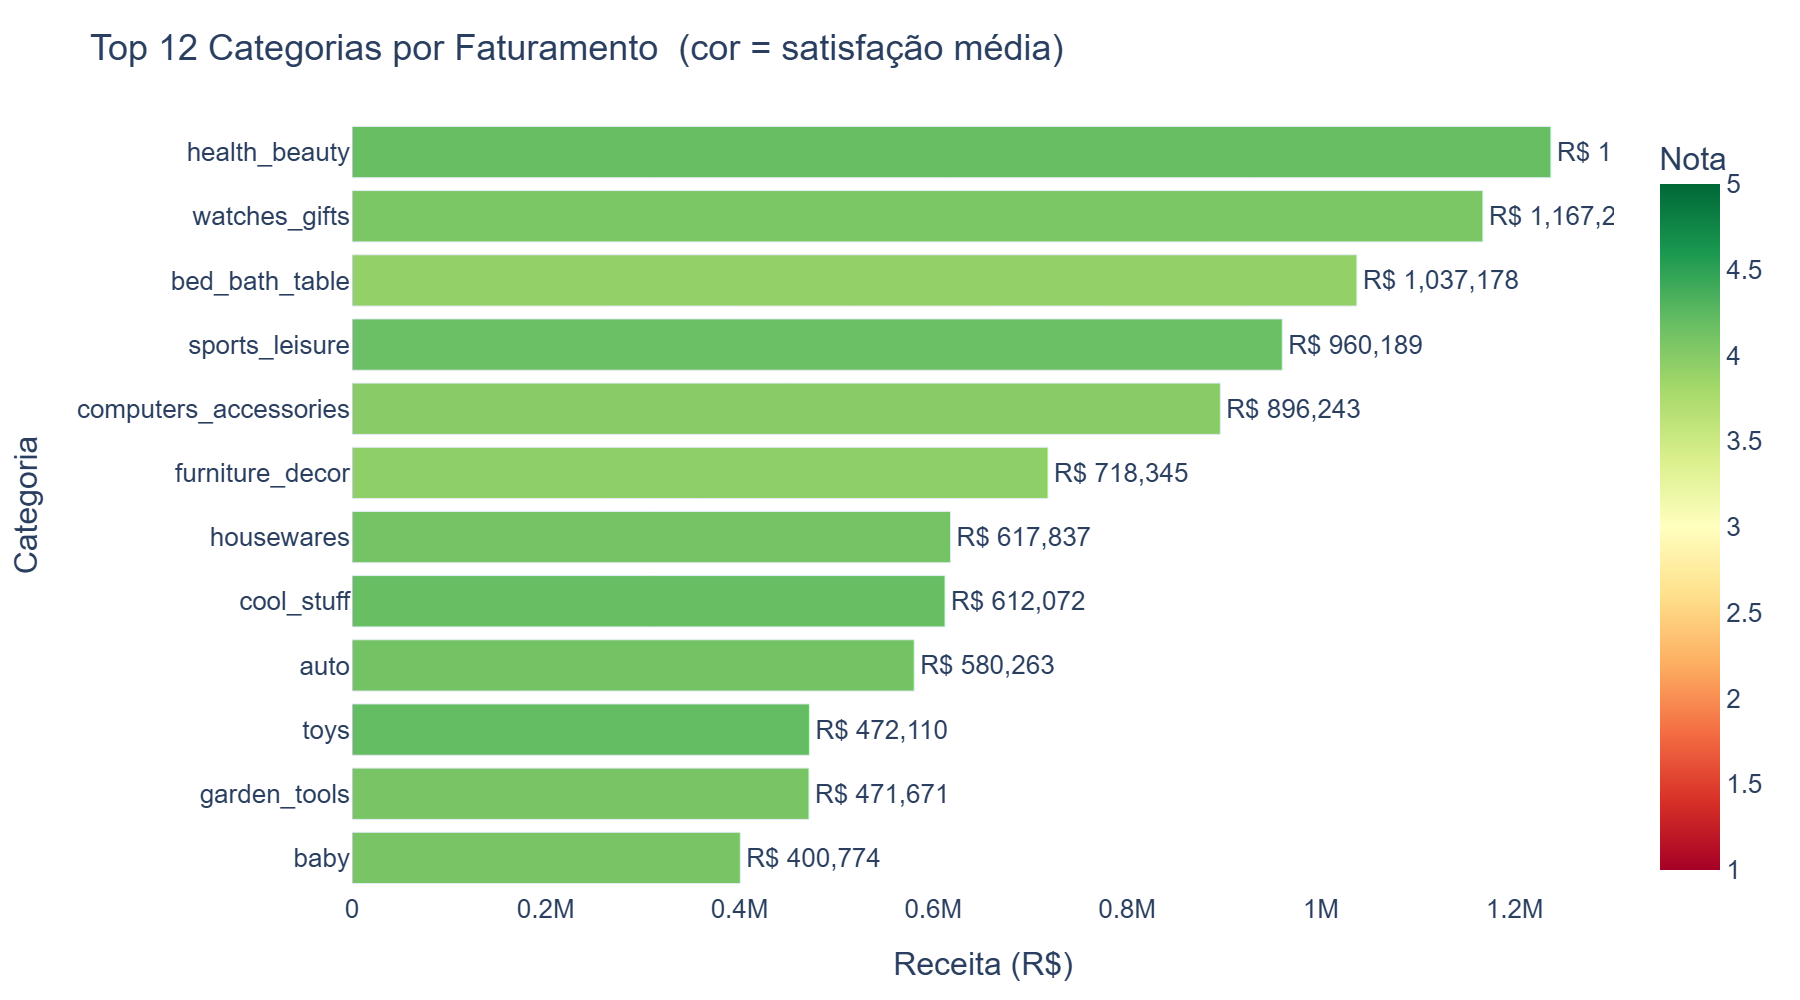
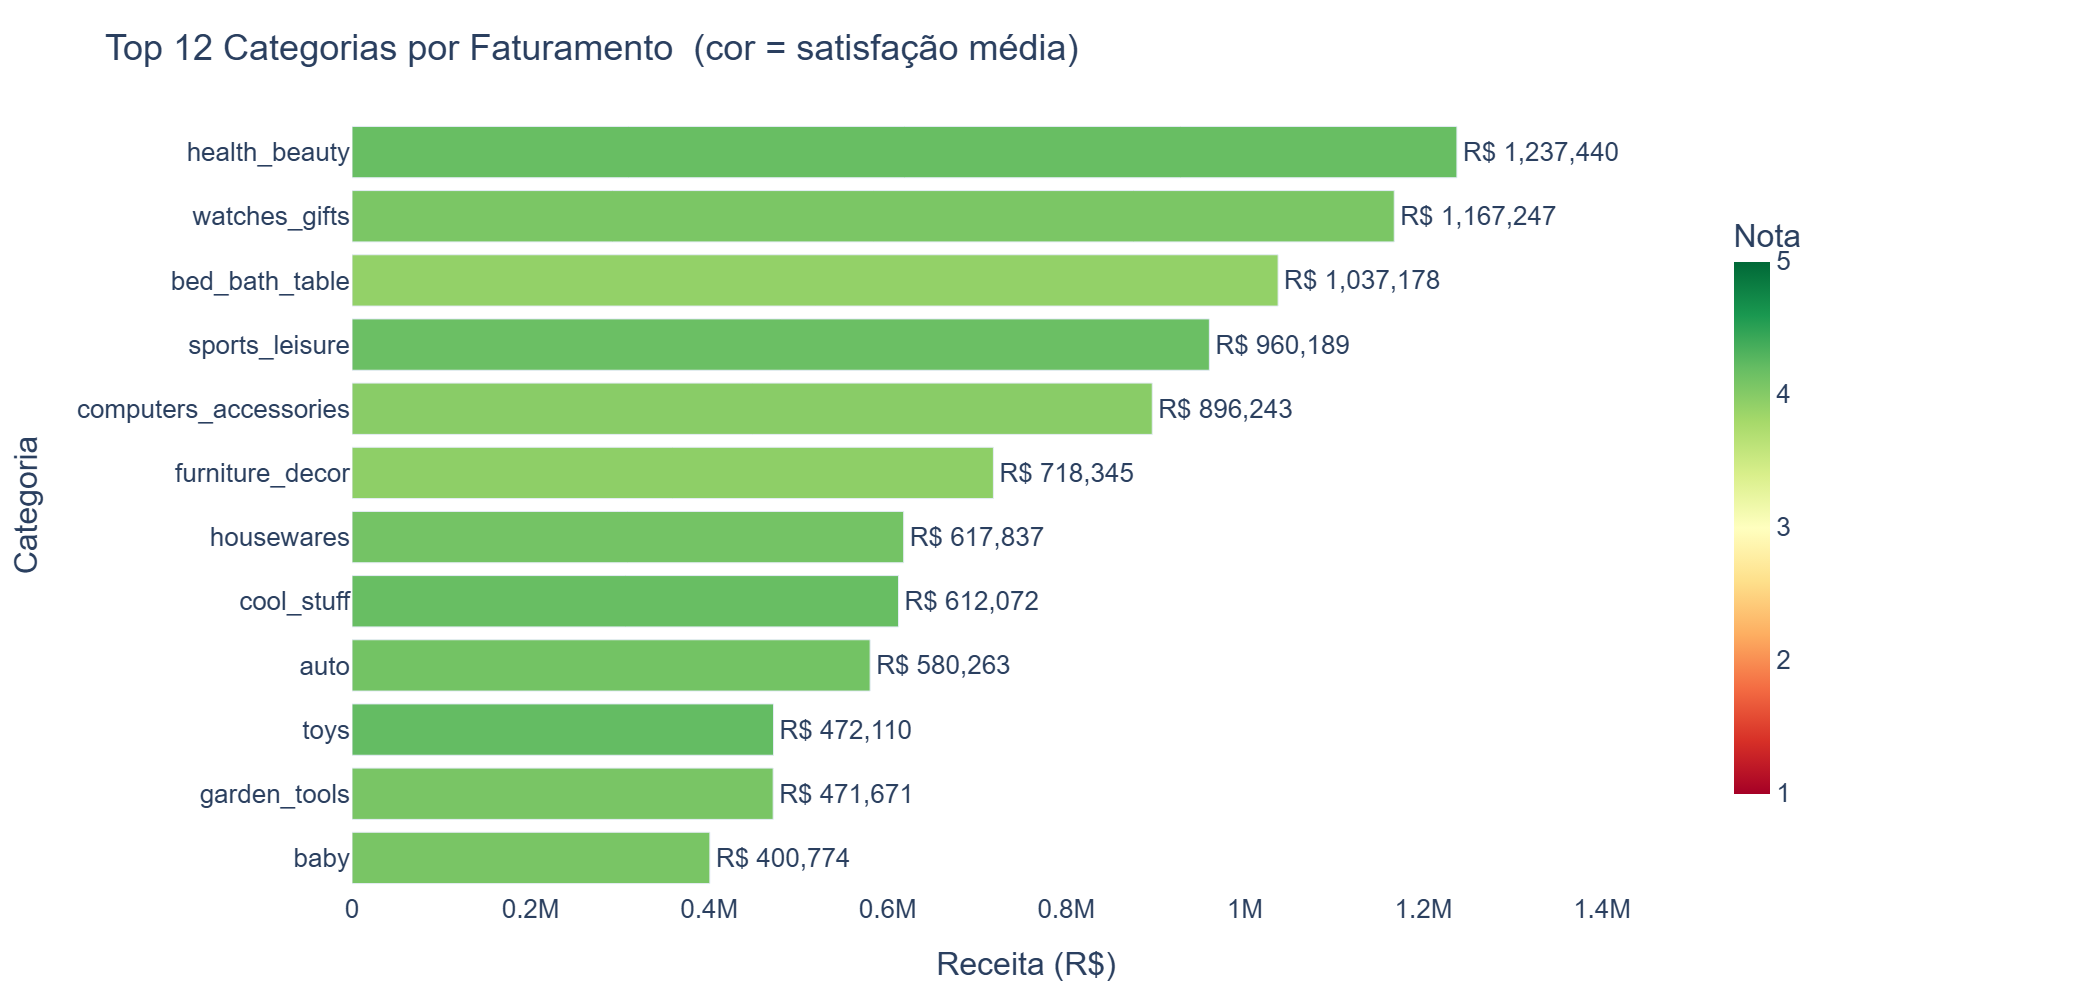
Corrige layout dos gráficos: remove colorbar vazando e ajusta margem das categorias

diff --git a/generate_screenshots.py b/generate_screenshots.py
@@ -136,12 +136,12 @@ def gera_overview():
         showlegend=False,
     ), row=1, col=1)
 
-    # Categorias (horizontal bar)
+    # Categorias (horizontal bar) — showscale=False para não vazar colorbar no subplot vizinho
     top10 = cats.head(10).sort_values('receita')
     fig.add_trace(go.Bar(
         x=top10['receita'], y=top10['categoria'],
         orientation='h',
-        marker=dict(color=top10['receita'], colorscale='Blues'),
+        marker=dict(color=top10['receita'], colorscale='Blues', showscale=False),
         showlegend=False,
     ), row=1, col=2)
 
@@ -154,10 +154,10 @@ def gera_overview():
         showlegend=False,
     ), row=2, col=1)
 
-    # Estados
+    # Estados — showscale=False para não vazar colorbar
     fig.add_trace(go.Bar(
         x=estados['estado'], y=estados['receita'],
-        marker=dict(color=estados['receita'], colorscale='Purples'),
+        marker=dict(color=estados['receita'], colorscale='Purples', showscale=False),
         showlegend=False,
     ), row=2, col=2)
 
@@ -224,7 +224,17 @@ def gera_categorias():
         title='Top 12 Categorias por Faturamento  (cor = satisfação média)',
     )
     fig.update_traces(texttemplate='R$ %{text:,.0f}', textposition='outside')
-    fig.update_layout(height=500, width=900, **LAYOUT)
+    fig.update_layout(
+        height=500, width=1050,
+        plot_bgcolor='white', paper_bgcolor='white',
+        font=dict(family='Arial', size=13),
+        margin=dict(l=40, r=200, t=60, b=40),
+        coloraxis_colorbar=dict(
+            x=1.01, xanchor='left',
+            len=0.8, thickness=18,
+        ),
+    )
+    fig.update_xaxes(range=[0, cats['receita'].max() * 1.22])
     path = os.path.join(OUT_DIR, 'categorias.png')
     fig.write_image(path, scale=2)
     print(f'Salvo: {path}')